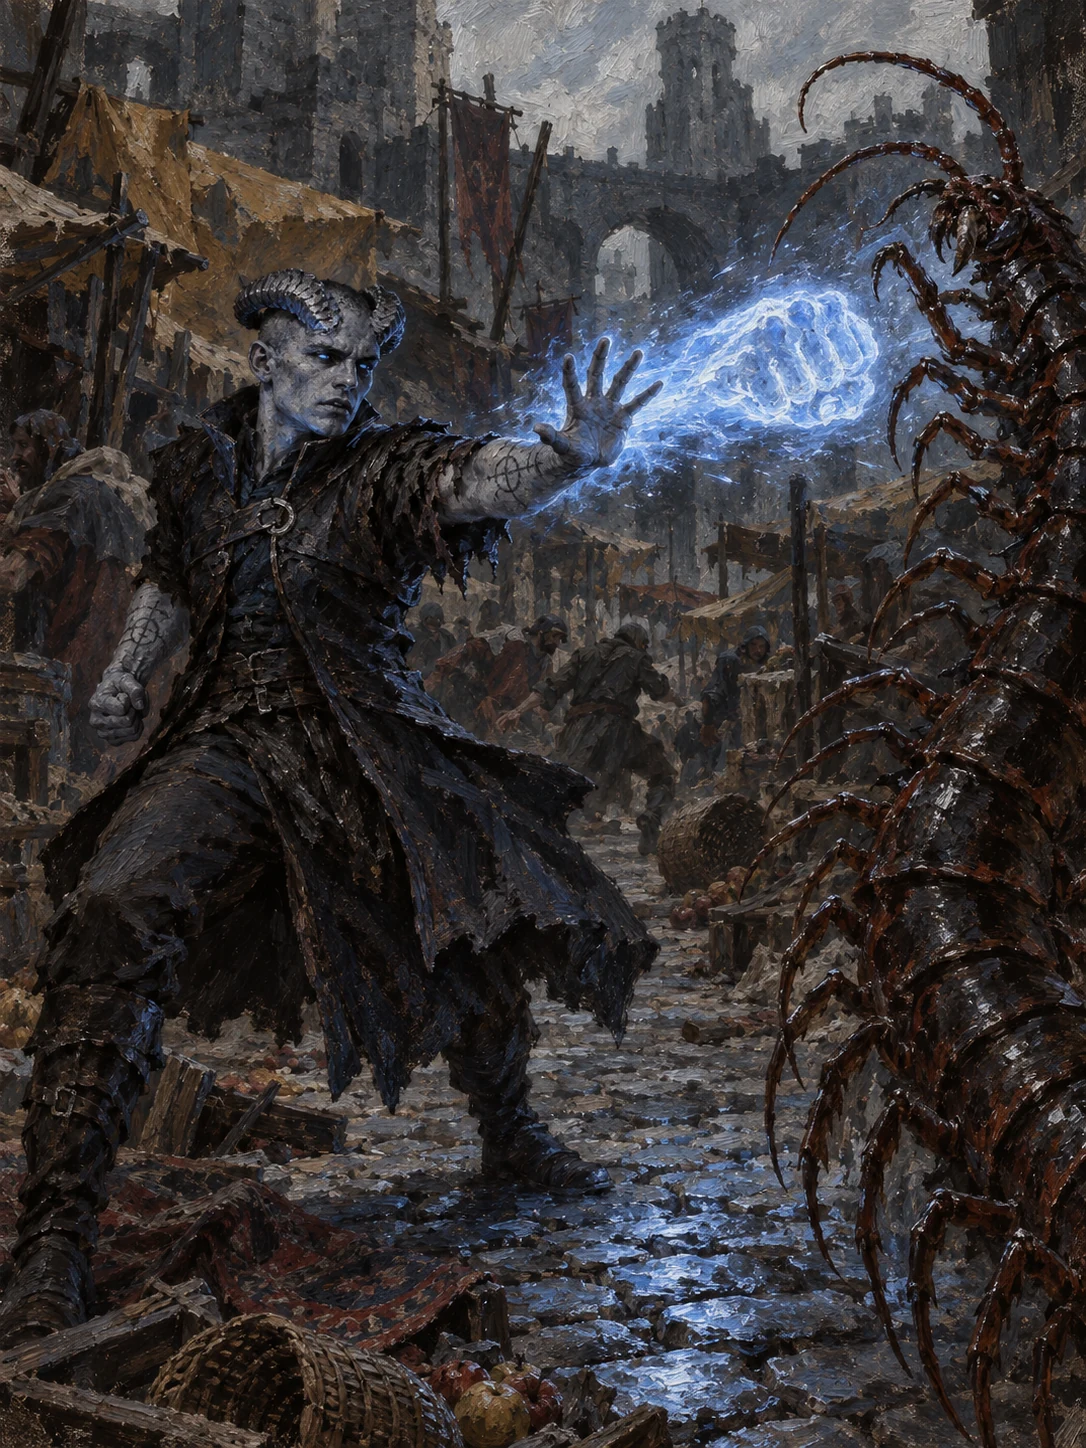
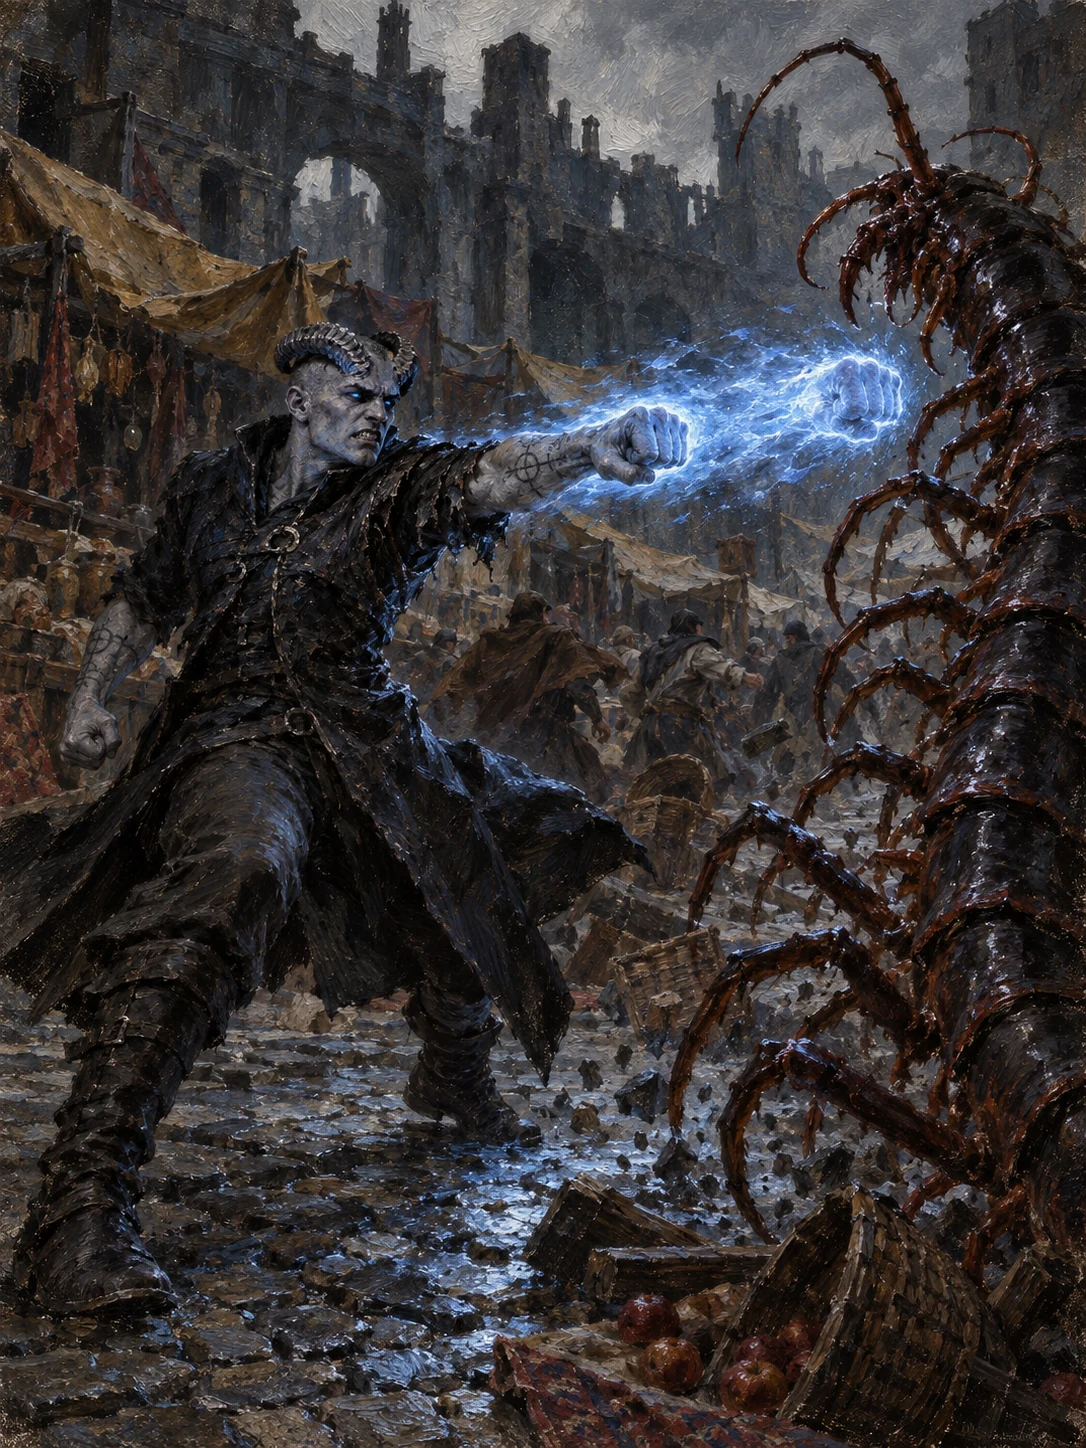
Reshoot Riven''s plate: one fist, thrown twice
Three faults. His outthrust hand was an open palm rather than a fist.
The bolt was the opposite hand from the one throwing it, so a right fist
appeared to come off a left hand. And his face was empty in the middle
of the most violent thing he does.

Now he punches with a closed right fist and the bolt is an exact
duplicate of it - same hand, same clench, same knuckles-forward angle,
sliding off his own knuckles - which is what John described at the table
and what Matt called it mimicking his hand. The face is fury and effort.

CANON.md carries the rule now: the two fists are always the same
handedness, never an open palm, and "level and unhurried" is Riven''s
resting face rather than a licence to paint him blank mid-fight.

diff --git a/characters/CANON.md b/characters/CANON.md
@@ -34,7 +34,7 @@ the change in the row rather than repainting the face.
 
 | Character | Portrait | Cast group | Likeness anchors (keep these constant) |
 |---|---|---|---|
-| **Riven Maelus** | [`riven-maelus.webp`](riven-maelus.webp) | The Company | **Tiefling** man, early twenties, lean and road-worn. **Ash-grey skin, a pair of swept-back ridged horns, pale blue eyes that carry their own light**, dark hair cropped close at the sides; **faint drawn sigils inked along both forearms**. A dark travel-worn coat with a plain ring-clasp, one shoulder gone ragged; nothing ornamental. Expression: level, unhurried, watching something off to one side. *Avoid:* robes, a staff, a pointed hat, a spellbook held open, finery, a beard, warm or golden light, a smile. Confirmed tiefling; the portrait carries over from the character's earlier name unchanged. |
+| **Riven Maelus** | [`riven-maelus.webp`](riven-maelus.webp) | The Company | **Tiefling** man, early twenties, lean and road-worn. **Ash-grey skin, a pair of swept-back ridged horns, pale blue eyes that carry their own light**, dark hair cropped close at the sides; **faint drawn sigils inked along both forearms**. A dark travel-worn coat with a plain ring-clasp, one shoulder gone ragged; nothing ornamental. Expression at rest: level, unhurried, watching something off to one side. **In a fight he is allowed real fury**: brows driven down, a crease between them, the pale eyes narrowed to a glare, jaw clenched, lips off the teeth with effort. "Level and unhurried" is his resting face, not a rule that his face stays empty while he works. **His *telekinetic fist*:** he throws it with his own hand CLENCHED INTO A FIST, and the bolt is an exact duplicate of that fist — same hand, same clench, same knuckles-forward orientation, sliding off his own knuckles and flying on with a short comet-tail. John described it as the energy coming off his hand; Matt described it as sliding off and *mimicking* it. **The two fists must always be the same handedness.** Never an open palm, never a mirrored or opposite-handed bolt. *Avoid:* robes, a staff, a pointed hat, a spellbook held open, finery, a beard, warm or golden light, a smile, a blank or serene face in an action scene. Confirmed tiefling; the portrait carries over from the character's earlier name unchanged. |
 | **Dorogh Kell** | [`dorogh-kell.webp`](dorogh-kell.webp) | The Company | Half-orc man, early twenties, **noticeably bigger than a human** — broad neck, heavy shoulders. More orc than human: heavy brow, broad jaw, **grey-green skin**, **ears subtly pointed** (never round human ears — renders drift), **two small clean lower tusks**, dignified, never a brutish underbite. **Plain round wireframe spectacles**, small on a large face. **An open-faced steel nasal helm** that hides nothing. Battered mail, a padded collar; **nothing at the chest — no pendant, no device**. Expression at rest: a deliberate, slightly self-conscious attempt at looking friendly — closed-mouth smile, brows a little raised, steady eye contact. **In a fight he is allowed a full open-mouthed battle roar**, brows driven down, eyes wide and furious, tusks showing: that is rage and it reads as rage. What is forbidden is the *grin* — a bared-teeth smile on a tusked face reads as caricature instantly. *Avoid:* a grin, a smirk, a sneer, a goofy or stupid expression, huge tusks, a full-face or horned helm, modern glasses, a cross or holy symbol, an old man. |
 | **Diddle Scribes** | [`diddle-scribes.webp`](diddle-scribes.webp) | The Company | Goblin man, small and **leaner than the usual goblin**; greenish-tan freckled skin. **He is 2 feet 7 inches tall** — the crown of his head comes to just below Kora's belt, and he is a little over a third the height of the tall members of the company, not half. **His face is an ordinary goblin face: two eyes, a broad flat nose, a wide mouth. His eyes are GREEN** (Jeremy's description at the table, settled by Matt 2026-09-20); the yellow in the mask's eye-holes is lamp and flask light catching in them, not the colour of the eye. In the field it is hidden behind **a rigid faceted alchemist's mask** of dark oiled leather over plate, covering the whole face — a vertical seam down the centre, radiating seams below it, small rivets at the joins, and **four round holes: the upper two are eye-holes with his eyes behind them, the lower two are smaller, set closer together, and are for breathing.** Pale alchemical vapour curls around it. A **deep hood** over the mask; **very large tapered ears** stand clear of it, the left one notched and hung with a plain metal cuff. Quilted tan lattice-stitched coat over a long brown work-coat, dark leather gloves, heavy boots, and a **belt and bandolier of pouches and stoppered vials** — green, blue, violet. Usually holding an **orange bomb-flask**. He takes the mask and hood off indoors once he is warm and settled. Expression (unmasked): curious, guileless, mid-explanation. *Avoid:* **four eyes on his actual face, a long ridged nose, a tiny mouth** — all three are misreadings of the mask; also a snarl, bared teeth, a manic grin, red eyes, a hobgoblin's bulk, warpaint, a hooked nose, tribal rags, a cauldron. |
 | **Kora Sjon** | [`kora-sjon.webp`](kora-sjon.webp) | The Company | Tengu woman of thirty-three, 5'7" and a shade taller than a human woman — glossy blue-black plumage over the whole body, a **raven's head and neck**, a **heavy dark grey beak**, one **amber-gold eye** visible in profile, a ruff of layered neck feathers; **hands humanlike, legs birdlike** (the portrait keeps the hands dark and claw-tipped, but they are hands, not talons). A **deep hood lined in pale gold knotwork** worn back off the face, a **feathered mantle** over dark layered vestments, a slate sash, and **hanging chains of small charms — a compass-rose disc, a crescent** — with a rolled scroll at the hip. Carries a **tall crook-headed wooden staff with a lit lantern swinging from it**. Expression: composed, looking off past the viewer. *Avoid:* a human face, a beak-shaped mask over human features, a parrot's colouring, an owl, bright plumage, armour, a holy symbol on a cross, a grin. *Cloth, settled by Matt 2026-09-20:* her dress and hooded robe are **light grey**, as Freya describes her and as the chronicle's prose has it. The portrait's cloth is much darker; **the grey wins in all new art.** Everything else in this row still follows the portrait — plumage, beak, the amber-gold eye, the gold knotwork hood lining, the charms and the crook staff. |
